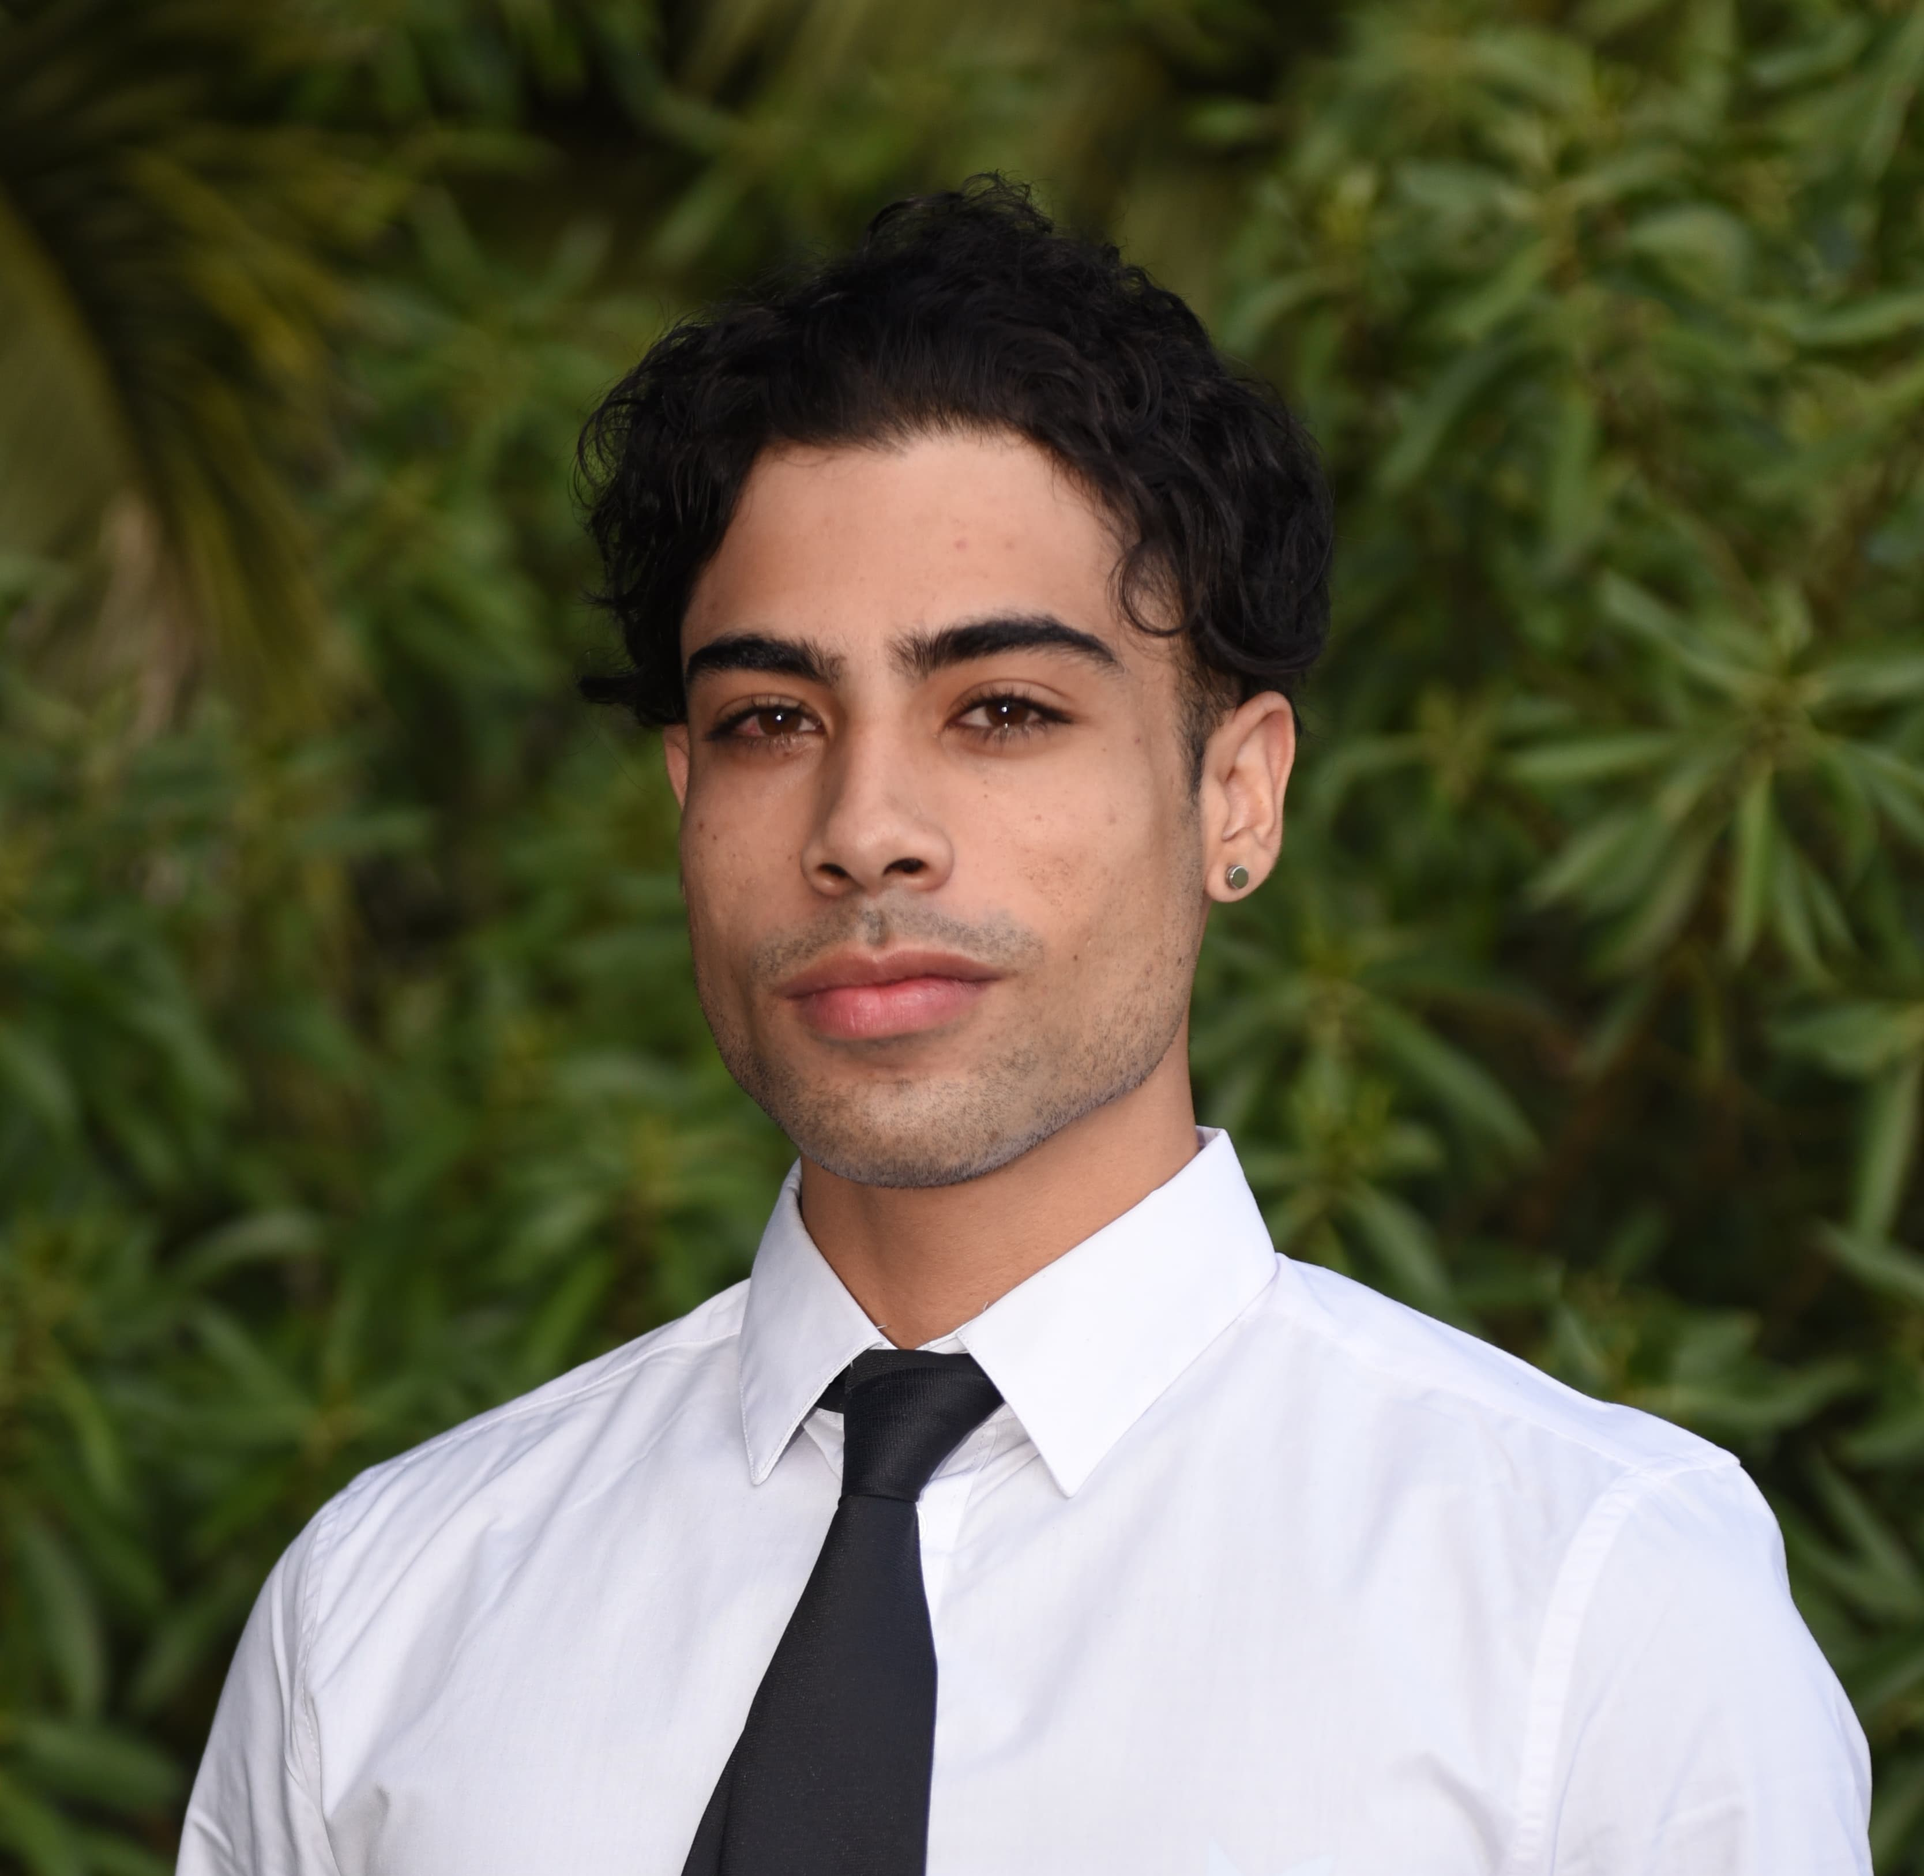
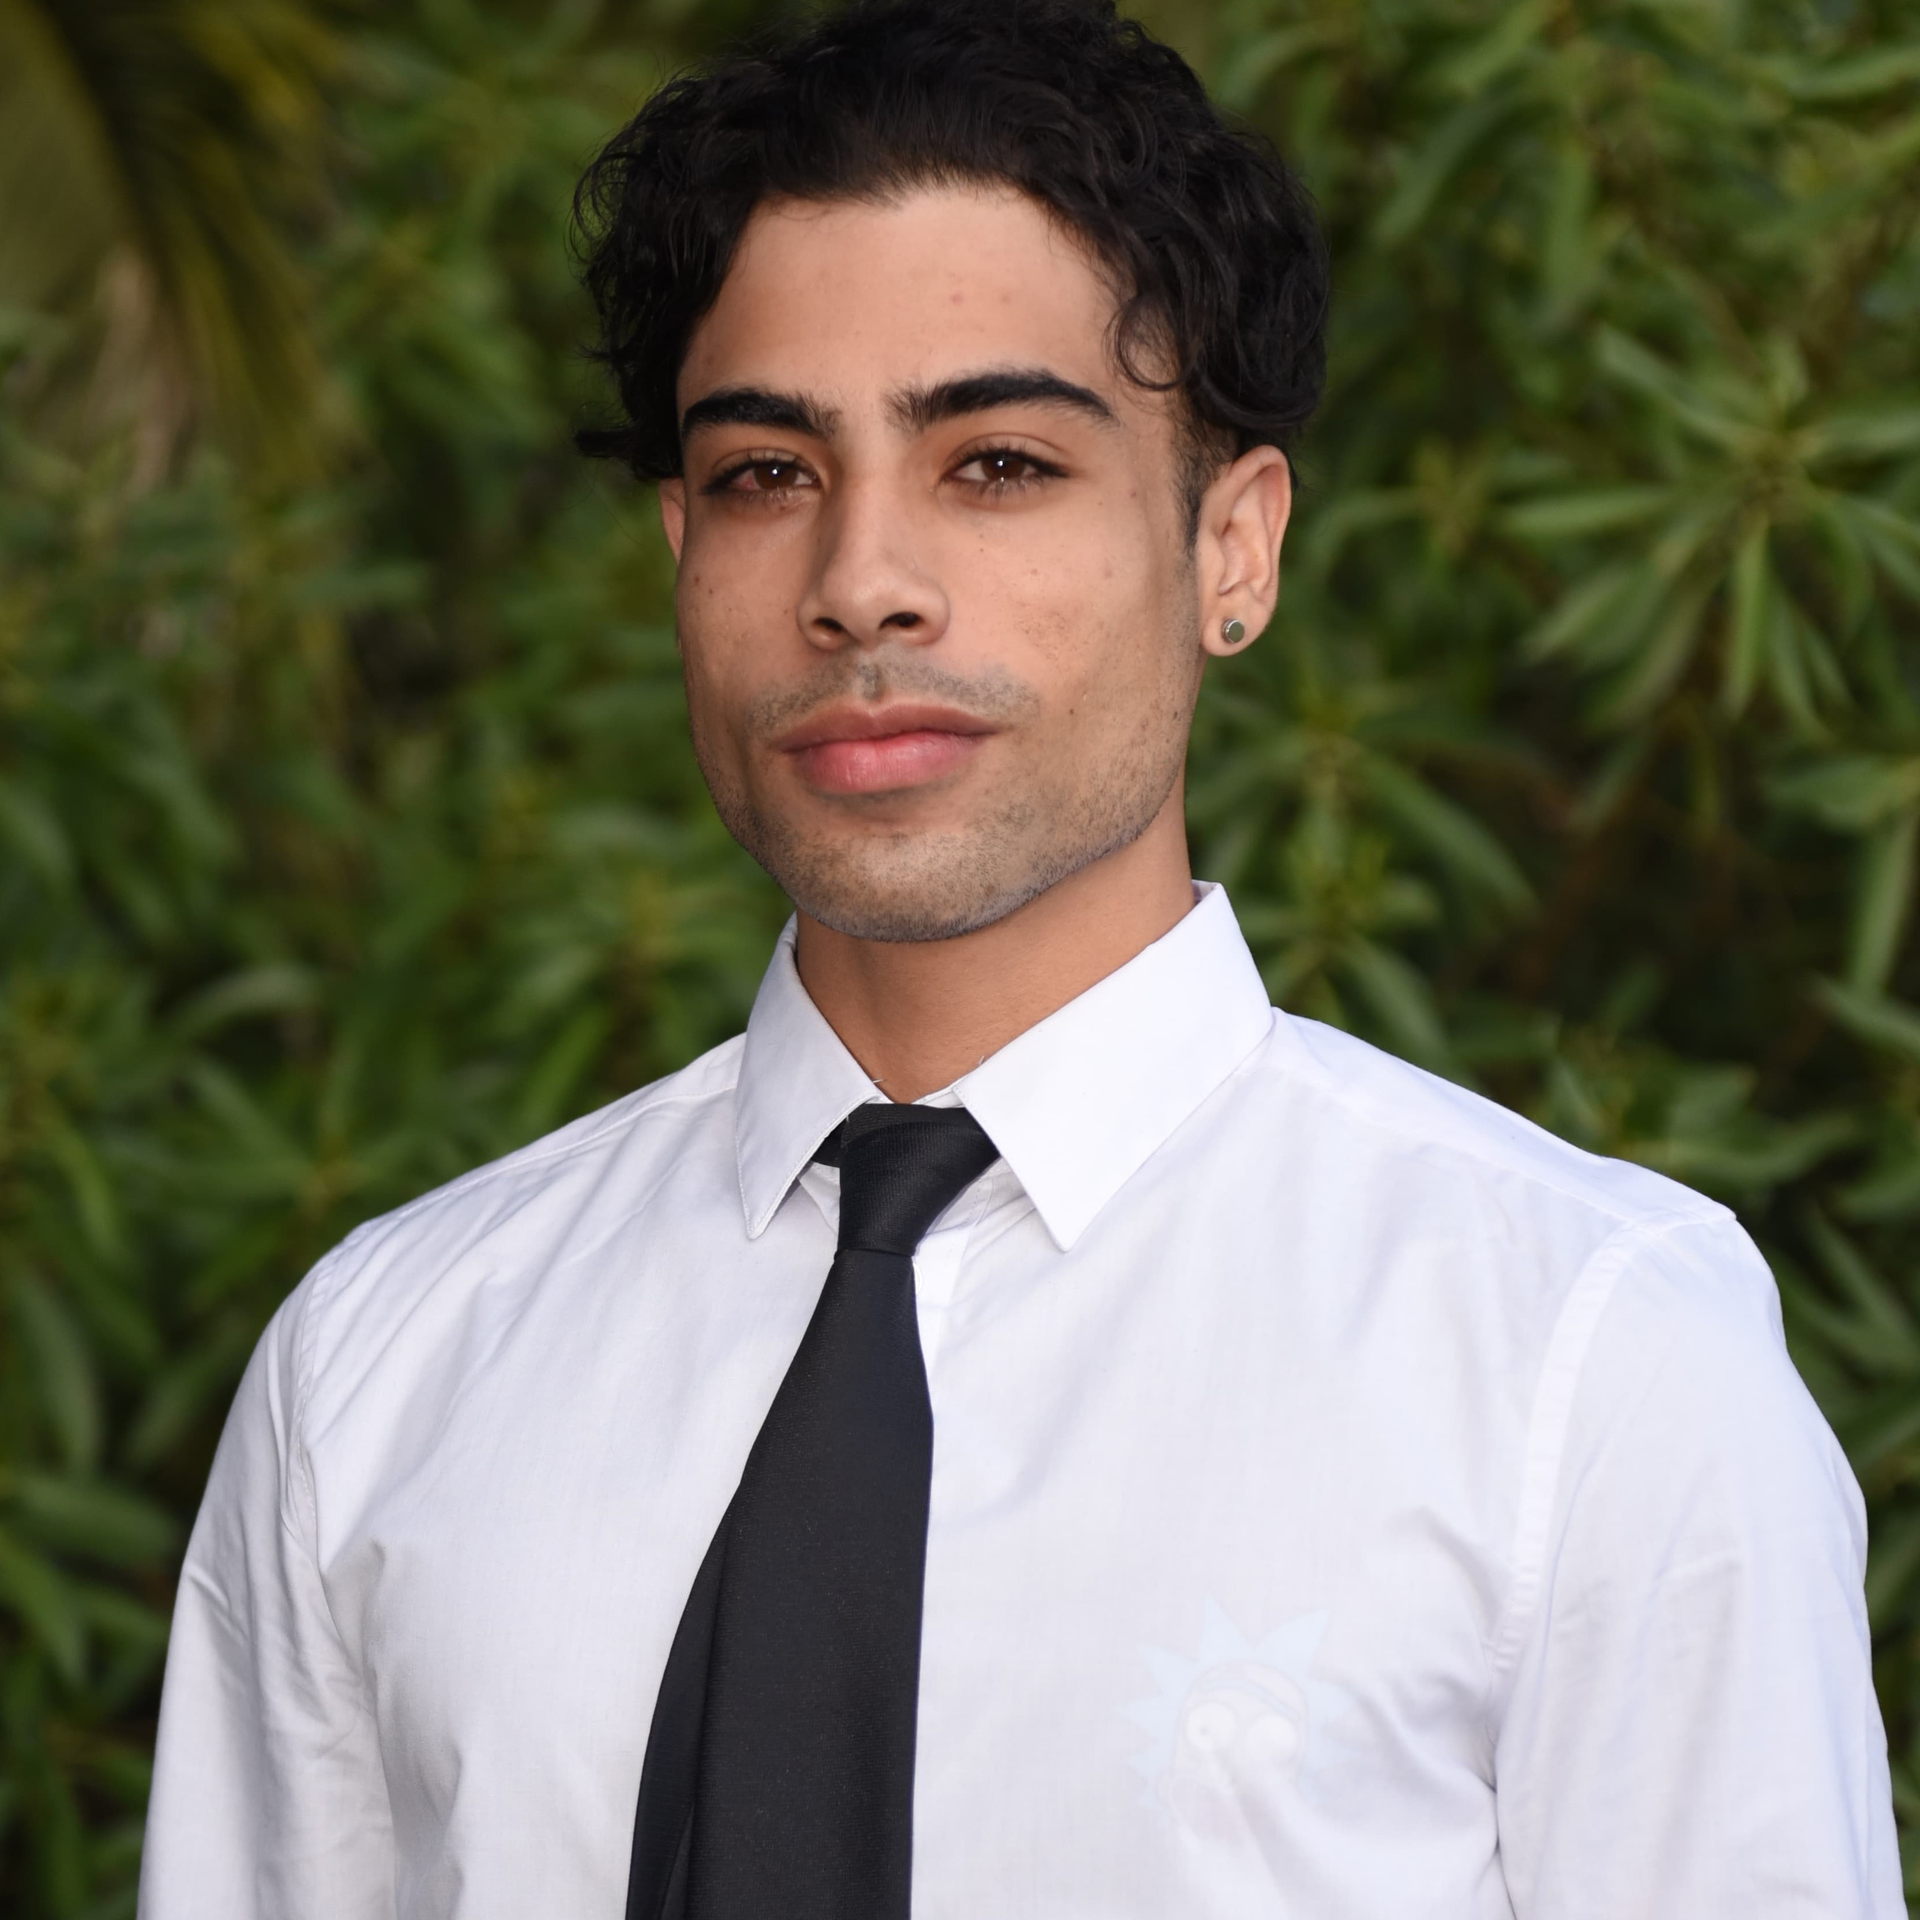
Fixed carousel

diff --git a/index.html b/index.html
@@ -104,7 +104,7 @@
           <div class="col-md-4">
             <img id="Home-logo" src="./Images/Home-logo.gif" alt="Logo" />
           </div>
-          <div class="col-md-8 d-flex justify-content-center flex-column">
+          <div class="col-md-8 d-flex justify-content-center flex-column mb-4">
             <h1 id="home-title">uzair damonse</h1>
             <h2 id="home-sub-title">aspiring full-stack developer</h2>
           </div>
@@ -169,9 +169,7 @@
               <div class="carousel-caption d-none d-md-block mb-4 text-dark">
                 <h5>Dream-destination</h5>
                 <p>
-                  <i class="fa-solid fa-quote-left"></i> Lorem ipsum dolor sit
-                  amet consectetur adipisicing elit.
-                  <i class="fa-solid fa-quote-right"></i>
+                  This project was my firt project that included HTML and CSS
                 </p>
                 <div class="links m-3">
                   <a
@@ -199,9 +197,7 @@
               <div class="carousel-caption d-none d-md-block mb-4 text-black">
                 <h5 class="Calculator-text">Calculator</h5>
                 <p class="Calculator-text">
-                  <i class="Calculator-text fa-solid fa-quote-left"></i> Lorem
-                  ipsum dolor, sit amet consectetur adipisicing elit.
-                  <i class="Calculator-text fa-solid fa-quote-right"></i>
+                  This project was my firt project that included flexbox
                 </p>
                 <div class="links m-3">
                   <a
@@ -229,9 +225,8 @@
               <div class="carousel-caption d-none d-md-block mb-4 text-light">
                 <h5>Restaurant</h5>
                 <p>
-                  <i class="fa-solid fa-quote-left"></i> Lorem ipsum dolor sit
-                  amet consectetur adipisicing elit.
-                  <i class="fa-solid fa-quote-right"></i>
+                  This project was my firt project that included everything I
+                  learned with Bootstrap
                 </p>
                 <div class="links m-3">
                   <a
@@ -346,7 +341,7 @@
                 <img
                   id="Me"
                   class="mb-4 rounded"
-                  src="./Images/Uzair1.jpg"
+                  src="./Images/Uzair.jpg"
                   alt="Me"
                 />
               </div>
@@ -436,16 +431,19 @@
           <div class="p-3">
             <div class="bg-dark text-white p-3">
               <i class="fa-solid fa-quote-left"></i>
-              Lorem ipsum dolor sit amet consectetur adipisicing elit. Minima
-              quasi laudantium aut cumque quaerat nobis dolorum tempore expedita
-              ratione exercitationem?
+              Lorem ipsum dolor sit amet consectetur adipisicing elit. Vel
+              aperiam, harum qui soluta, nesciunt at facilis excepturi
+              consequuntur aut provident tenetur distinctio consequatur iusto
+              quam fugiat repellendus vitae eum neque alias, deleniti dolorem.
+              Deserunt, voluptas!
               <i class="fa-solid fa-quote-right"></i>
 
               <div class="row">
                 <div class="col-md-4">
                   <img
+                    id="Jason"
                     class="test-img rounded-circle mt-3"
-                    src=""
+                    src="./Images/Jason.jpg"
                     alt="Jason"
                   />
                 </div>
@@ -492,7 +490,7 @@
                 <div class="col-md-4">
                   <img
                     class="test-img rounded-circle mt-3"
-                    src="./Images/Ricardo1.jpg"
+                    src="./Images/Ricardo.jpg"
                     alt="Ricardo"
                   />
                 </div>
@@ -517,7 +515,7 @@
                 <div class="col-md-4">
                   <img
                     class="test-img rounded-circle mt-3"
-                    src="./Images/Fatima1.jpg"
+                    src="./Images/Fatima.jpg"
                     alt="Fatima"
                   />
                 </div>
@@ -567,7 +565,7 @@
                 <div class="col-md-4">
                   <img
                     class="test-img rounded-circle mt-3"
-                    src="./Images/Carla1.jpg"
+                    src="./Images/Carla.jpg"
                     alt="Carla"
                   />
                 </div>
@@ -600,7 +598,7 @@
               <div class="col-md-6">
                 <a href="#" target="_blank">
                   <i
-                    class="social text-decoration-none fa-brands fa-github-square my-4"
+                    class="social text-decoration-none fa-brands fa-github-square my-4 fs-1"
                   >
                   </i>
                 </a>
@@ -608,7 +606,7 @@
               <div class="col-md-6">
                 <a href="#" target="_blank">
                   <i
-                    class="social text-decoration-none fa-brands fa-linkedin my-4"
+                    class="social text-decoration-none fa-brands fa-linkedin my-4 fs-1"
                   ></i>
                 </a>
               </div>
@@ -743,6 +741,7 @@
     <script>
       $(document).ready(function () {
         $(".owl-carousel").owlCarousel({
+          autoplayHoverPause: true,
           autoplay: false,
           items: 2,
           loop: true,
